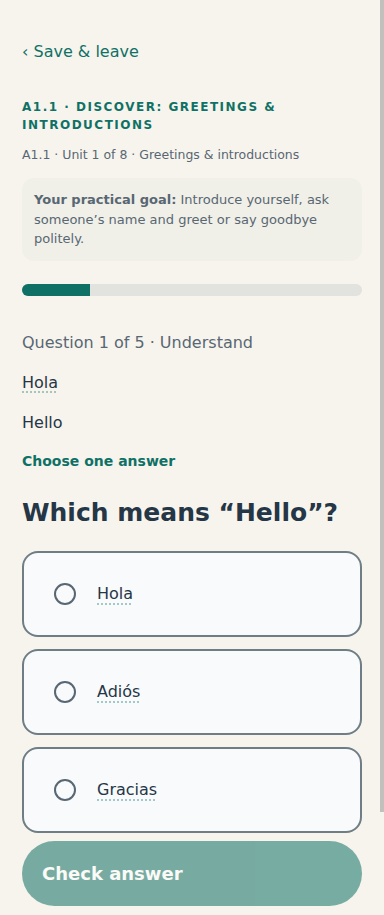
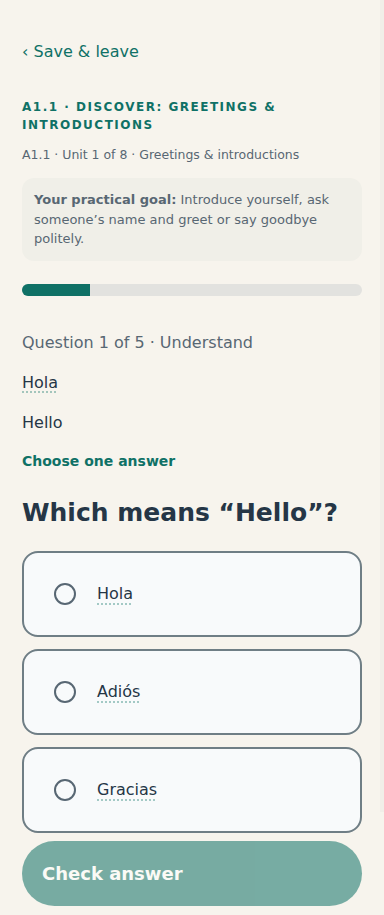
Refresh reviewed showcase from CI capture; document learning integrity
- Adopt the fifteen showcase PNGs captured by CI run 44301327572 from
  commit b89f3b5 (UI fingerprint 9d84e1a5…), unchanged since. Pixel
  comparison shows app content identical to the previous set apart from
  flag/emoji anti-aliasing and the scrollbar strip; all fifteen were
  individually reviewed (docs/release/LEARNING_INTEGRITY_SHOWCASE_REVIEW.md).
- COURSE_DESIGN.md records the learning-integrity changes, their limits
  and what remains (answer-length bias, recorded native audio).

App version stays 1.10.0; this is not a release.

Claude-Session: https://claude.ai/code/session_01KTi5CecSxbodEawk9nr1bq

Changed region(s): [[0.9688, 0.0, 1.0, 0.8874]]

diff --git a/docs/release/LEARNING_INTEGRITY_SHOWCASE_REVIEW.md b/docs/release/LEARNING_INTEGRITY_SHOWCASE_REVIEW.md
@@ -1,0 +1,41 @@
+# Learning integrity showcase review (unreleased, app 1.10.0)
+
+Refresh of the fifteen README showcase images after the learning-integrity and maintenance work on branch `claude/project-review-lrfzl1` (Android export/rotation fixes, start-up profiling, Prettier formatting, shuffled choice display, longer review spacing, explanation corrections, Write from Memory and Listen & Write). The app version remains **1.10.0 / Android versionCode 21**; this is not a release, and a version bump with release notes belongs to the release task.
+
+## Capture provenance
+
[2 lines of base64/hex data omitted]
+- Mode: clean-app-viewport; browser-simulated app viewports with illustrative learner data. No Android system UI, physical-device or TalkBack capture is claimed.
+
+## What changed in the images
+
+Pixel comparison with the previous published set: all app content is unchanged except glyph anti-aliasing of the flag and emoji (newer emoji font on the CI runner; `home`, `learn`, `profile`, `recommendations`, `review`, `saved-words`, `lesson-complete`, `feedback`) and the 4 px scrollbar strip, which also varies between repeat captures of unchanged main. The beginner question's stable shuffled order happens to equal its authored order, so that image is unchanged. The new Practice activities are below the captured region of `games.png`; they were inspected separately in local light and dark captures (hub cards, question, audio-first lock and feedback) and are covered by the browser layout suite (17 layouts, 60,866 assertions).
+
+## Recorded visual acceptance
+
+All fifteen exact PNGs below were individually inspected by the agent (Claude): clean viewports, no clipping, overlap or horizontal overflow, readable light/dark surfaces matching each profile's theme, and the visible navigation labels in order **Home · Learn · Practice · Review · Profile**. Independent human review remains outstanding.
+
+<!-- showcase-review: 9d84e1a509e23c63abf3439e675433bc32f2be6d3ca09925d27bbd3d69d9951c -->
+
+| Image | Theme | Viewport | Reviewed SHA-256 |
+| --- | --- | --- | --- |
[15 lines of base64/hex data omitted]
+
+## Limitations
+
+Browser simulation only; native insets, keyboard and TalkBack behaviour are not shown. Agent review is not independent native-speaker, educator or accessibility approval.

diff --git a/COURSE_DESIGN.md b/COURSE_DESIGN.md
@@ -1,3 +1,14 @@
+## Learning integrity (unreleased, after v1.10)
+
+A learning review found four issues; the fixes keep permanent IDs, the 416-slot stage structure and historical snapshots unchanged.
+
+- **Guessable choices.** Authored options put the correct answer first in 130/260 A1.1 questions. Options now display in a stable per-question permutation (`Structured.optionOrder`); selection still uses the authored index, so stored options and attempts are untouched. Answer positions are now near uniform across the course.
+- **Short review horizon.** Corrected mistakes settled into a fixed 30-day loop and concept retrieval capped at 14 days. Mistake reviews now expand 1, 3, 7, 14, 30, 60, 120 days; concept retrieval 1, 7, 14, 30, 60 days.
+- **Mismatched explanations.** 22 production items (38 live questions with checkpoint copies) and 3 focused-bank copies showed an explanation written for a different sentence. Each now explains its own model; only English explanation text changed. See `docs/release/v111-explanation-corrections.json`. Internal agent review only; independent native/educator review pending.
+- **No recall from memory before A2.2.** Core lessons stay structured (a textbox still means genuine expression). Practice adds *Write from Memory*, reusing the course's original authored typed-recall items with their accepted variants, and *Listen & Write*, dictation of short taught transcripts behind the existing audio-first lock. Both use only completed material; accents and punctuation are tolerated and ñ stays distinct. Mistakes return in Review as the same typed question.
+
+Not addressed: the correct option is still the uniquely longest in about 47% of choice questions, which needs reviewed distractor rewriting rather than a mechanical change; listening and speaking remain device text-to-speech, and recorded native audio would be the larger quality step.
+
 ## v1.9 foundations
 
 The foundations release changes orchestration/visual semantics, not curriculum progression. Twenty-six A1 models moved unchanged into canonical records; three B story glossary entries were corrected at source. Historical attempts remain snapshots. See the [architecture contract](docs/ARCHITECTURE.md).
